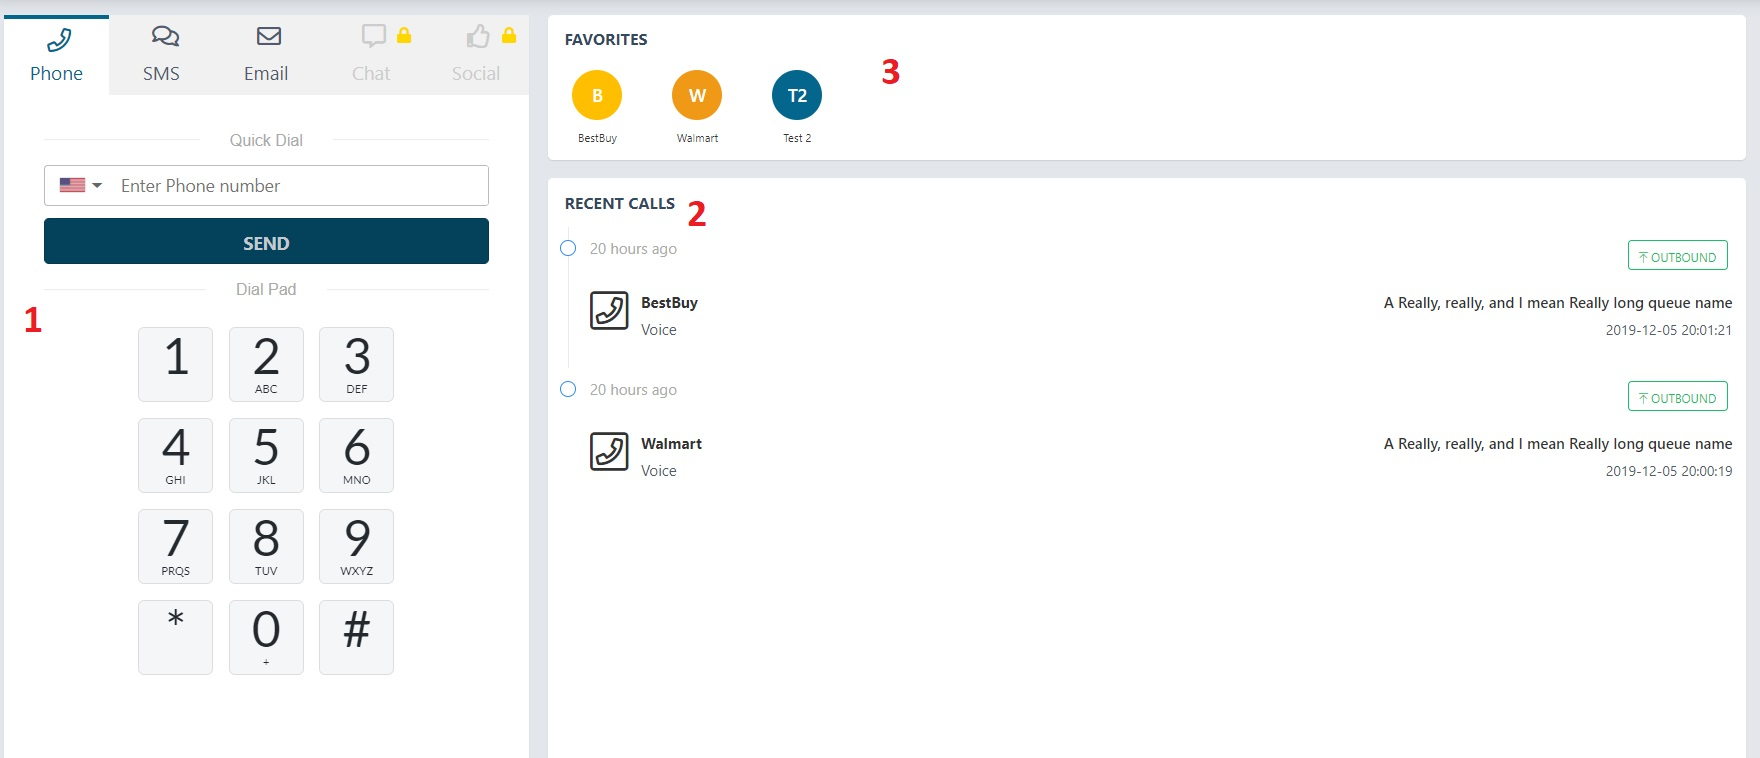
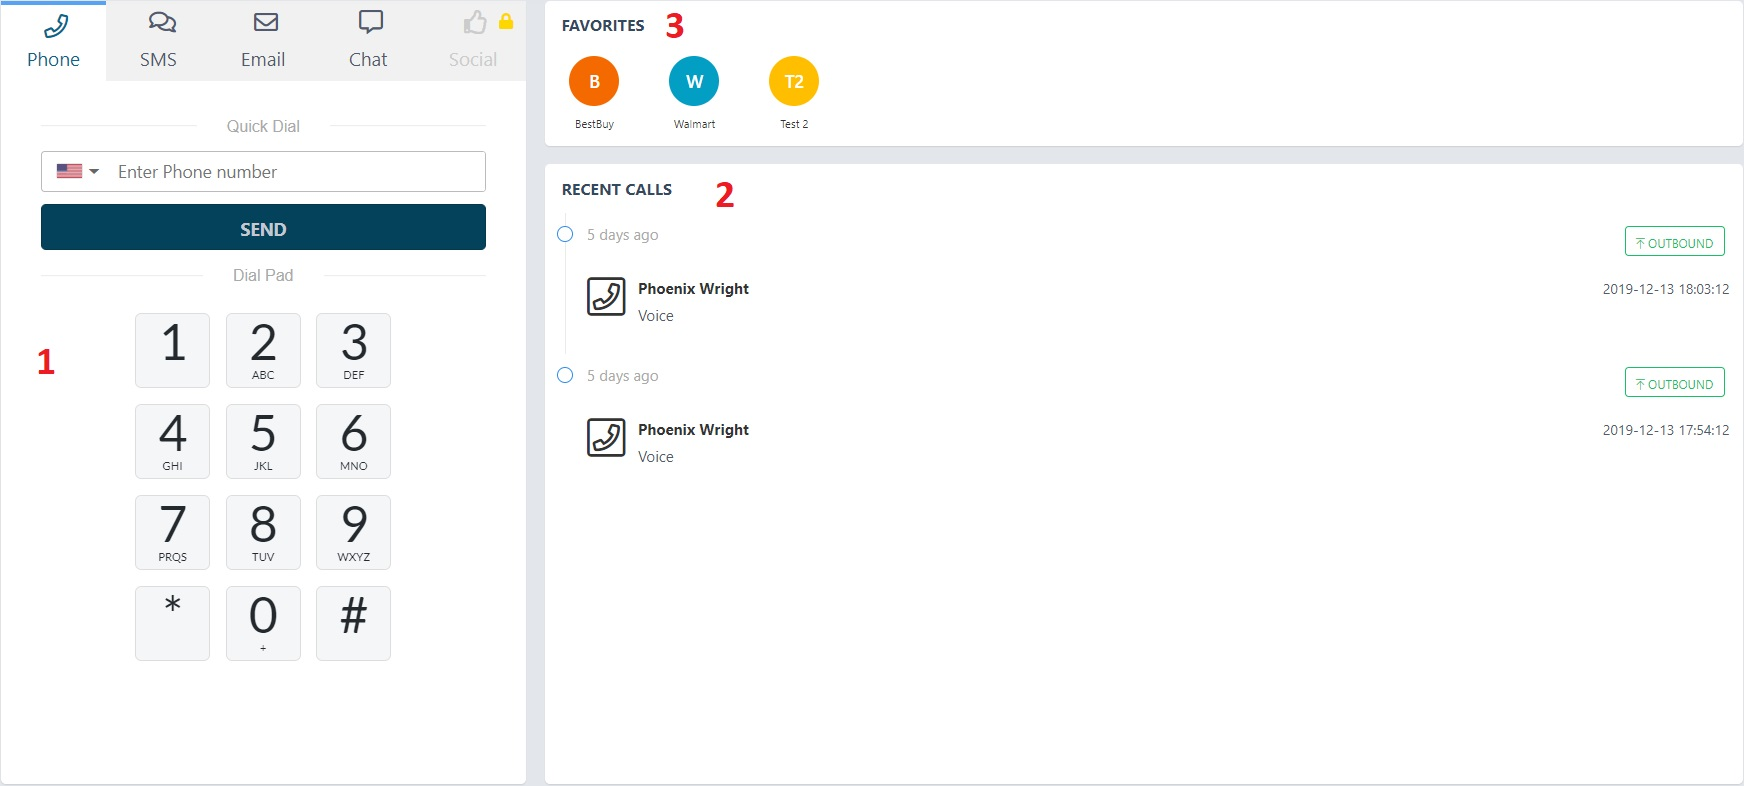
updated Engage tab

diff --git a/docs/_pages/engage.md b/docs/_pages/engage.md
@@ -8,17 +8,17 @@ sidebar:
   nav: "docs"
 ---
 
-The Engage TAB is one of Dextr main features since it's the place where you'll be having your calls. The left side consists of the dialpad (Figure 1. Component 1), while the right side consists of Recent Calls (Figure 1. Component 2) and Favorites (Figure 1. Component 3).
+The Engage TAB is one of Dextr main features since it's the place where you'll be having your calls and when entering the Engage tab you'll be redirected to the Phone Tab. The left side consists of the **Dialpad** (Figure 1. Component 1), while the right side consists of **Recent Calls** (Figure 1. Component 2) and **Favorites** (Figure 1. Component 3).
 
 <figure>
    <img src="{{ '/assets/images/engage-tab.jpg' }}" alt="Engage Tab">
-   <span>Figure 1. Engage Tab</span>
+   <span>Figure 1. Engage - Phone Tab</span>
 </figure>
 
 ----
-### Dialpad
+### Phone Tab
 
-Here you can type, paste or click the dialpad numbers to input a phone number and make a call. Remember to have the correct country code. When on call, you also have the option to put it on hold. 
+Here you can type and paste a number in the ***Quick Dial*** or click the numbers in the ***Dialpad*** to input the phone number and make a call. Remember to have the correct country code. When on call, you also have the option to put it on hold. 
 
 <figure>
    <img src="{{ '/assets/images/call-hold.gif' }}" alt="Call on Hold">
@@ -28,11 +28,11 @@ Here you can type, paste or click the dialpad numbers to input a phone number an
 ----
 #### Call Transfers
 
-You can also do a call transfers, which can be either **Blind** or **Warm**. 
+When on call, you're also able to do call transfers, which can be either **Blind** or **Warm**: 
 
-**Blind** transfers gets the call on a selected Queue, making the contact wait until is taken by the next Available agent while also leaving you completely out of the call. 
+- **Blind** transfers gets the call on a selected Queue, making the contact wait until is taken by the next Available agent while also leaving you completely out of the call. 
 
-**Warm** transfers on the other hand, allows you to remain and monitor the call when another agent takes it.
+- **Warm** transfers on the other hand, allows you to remain and monitor the call when another agent takes it.
 
 <figure>
    <img src="{{ '/assets/images/transfer-call.gif' }}" alt="Call Transfer">
@@ -53,14 +53,7 @@ If you don't select a disposition when timer ends, then no disposition will be a
 
 ----
 
-### SMS & Email
-
-**SMS** is for text message routing while **Email** is for inbound Email routing. When a contact sends an email to the Instance, an incoming modal window will show up asking you for permission to engage with the contact. If you accept then the email will be routed to your inbox (email assigned to your Dextr account), and you'll also be able to see the email conversation within Dextr Engage tab.
-
-Important to note is that you're unable to write answers from Dextr. To answer, you must do so with your email account outside of Dextr. 
-
-----
-### Recent Calls
+#### Recent Calls
 
 This panel keeps a track of all your calls. All calls have a label and a timestamp assigned to them. Inbound, Outbound and Missed calls will be registered as such.
 
@@ -70,10 +63,9 @@ If you right click any of the records, you can either copy the number or call it
    <img src="{{ '/assets/images/recent-calls.jpg' }}" alt="Recent Calls">
    <span>Figure 2. Recent calls</span>
 </figure>
+----
 
-----
-### Favorites
-----
+#### Favorites
 
 When creating contacts from the [Directory](/directory/), you can add them as favorites. All contacts tagged as Favorites will be displayed in this panel. Clicking any of them will give you the option to call them.
 
@@ -81,3 +73,15 @@ When creating contacts from the [Directory](/directory/), you can add them as fa
    <img src="{{ '/assets/images/engage-favorites.jpg' }}" alt="Engage Favorites">
    <span>Figure 3. Engage Favorites section</span>
 </figure>
+----
+
+### SMS & Email
+
+**SMS** is for text message routing while **Email** is for inbound Email routing. When a contact sends an email to the Instance, an incoming modal window will show up asking you for permission to engage with the contact. If you accept then the email will be routed to your inbox (email assigned to your Dextr account), and you'll also be able to see the email conversation within Dextr Engage tab.
+
+Important to note is that you're unable to write answers from Dextr. To answer, you must do so with your email account outside of Dextr. 
+
+----
+### Omni-Chat
+
+Like Email and SMS, your Admin builds a flow and use it across multiple channels. You're able to receive chat requests in the same web-based Contact Control Panel (CCP) you use for voice engagements since Customers will be put in a Queue and attended by the next available agent.
